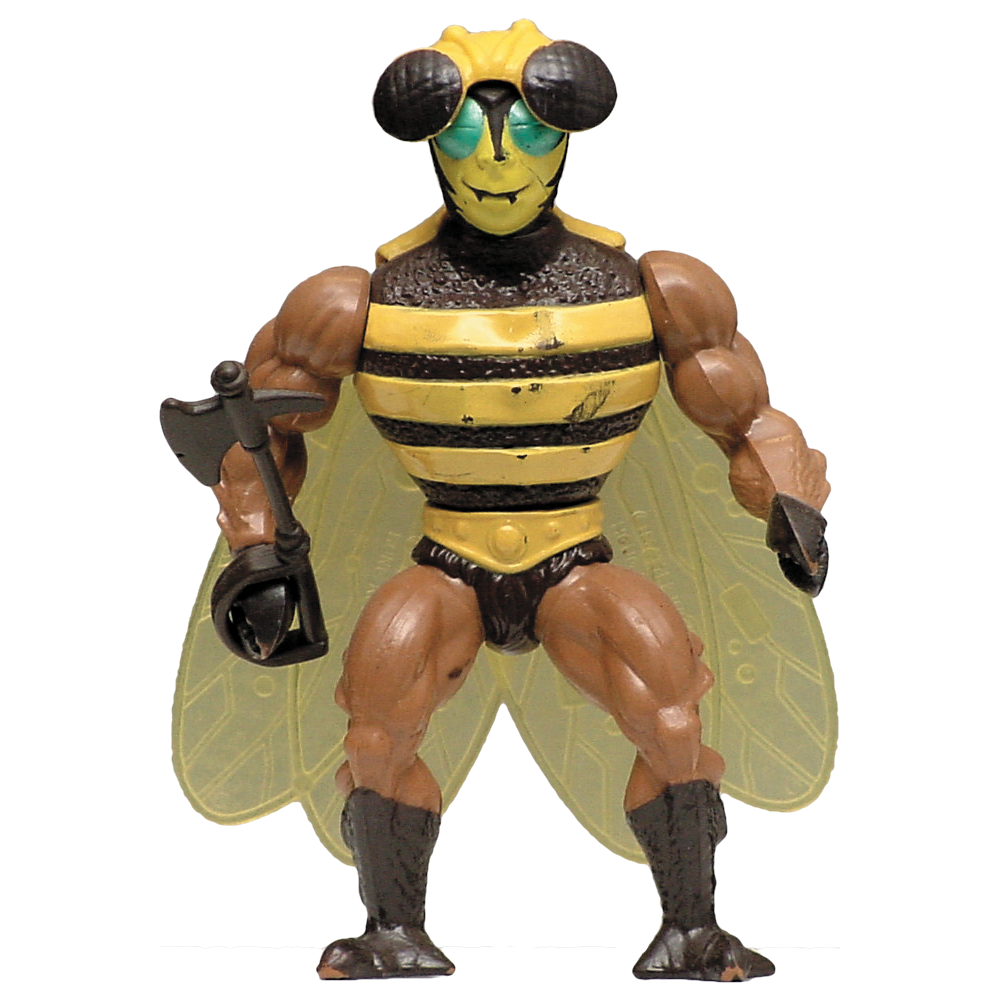
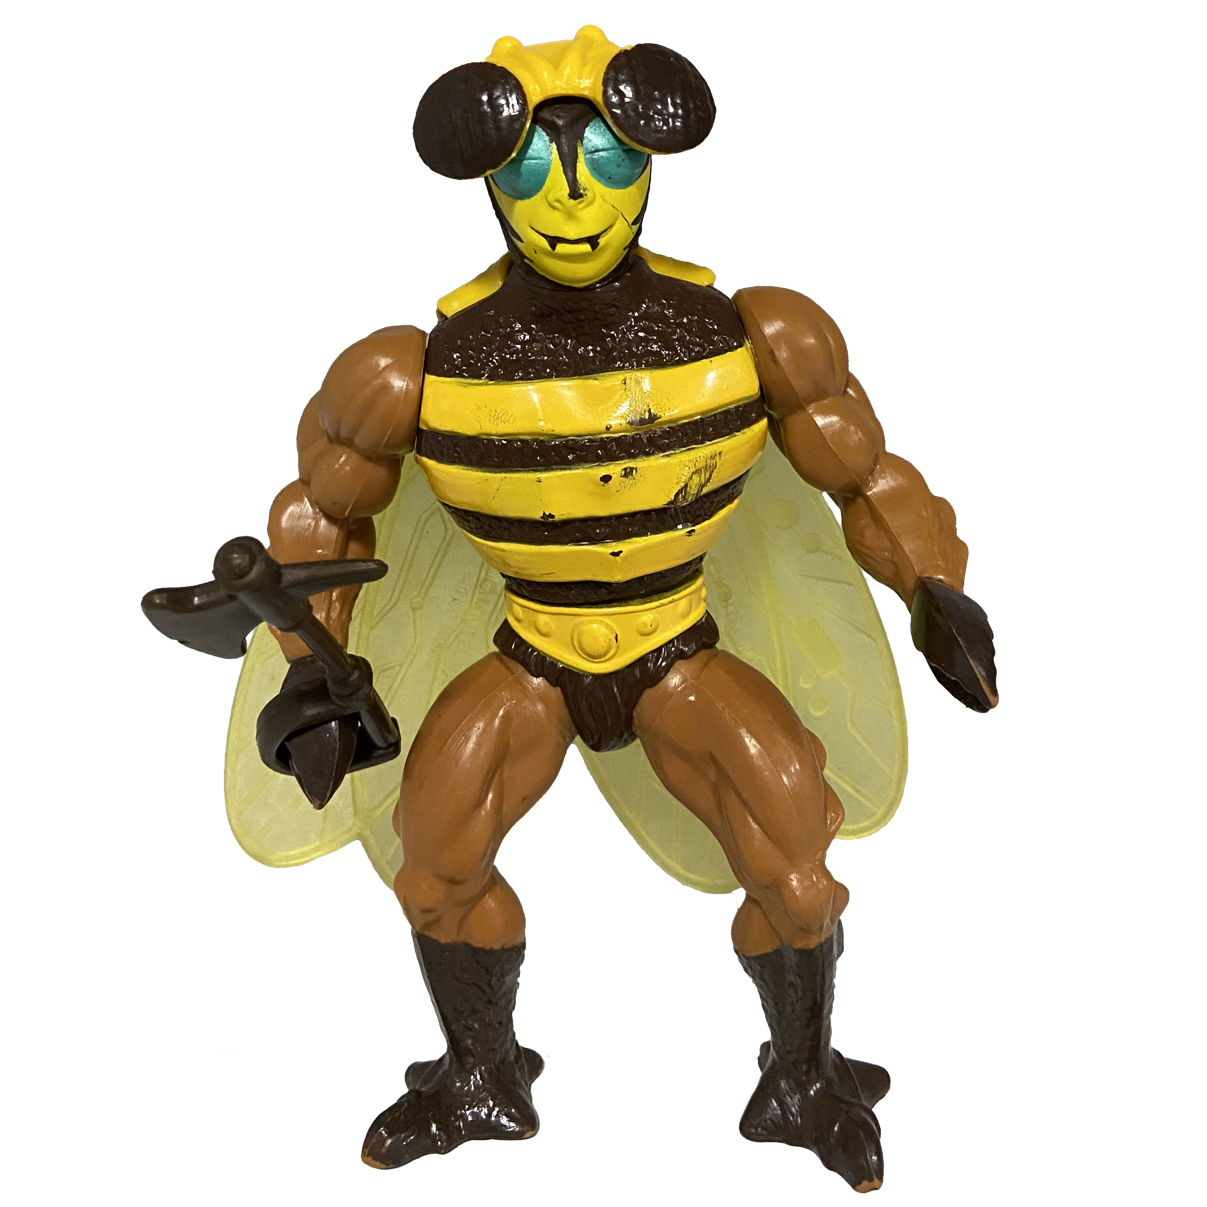
updating to webp

diff --git a/buzz-off.html b/buzz-off.html
@@ -205,11 +205,14 @@
                         <p class="year">2001</p>
                     </li>
                 </ul>
+
+                <!--https://codepen.io/chriscoyier/pen/XwbNwX-->
+
             </section>
             <aside>
                 <ul class="tabs-content">
                     <li>
-                        <!--<picture> 
+                        <picture> 
                             <source   media=”(min-width: 900px)”   
                             srcset=“image-lg_1x.webp 1x, image-lg_2x.webp 2x”   
                             type=“image/webp” > 
@@ -218,11 +221,13 @@
                             <source   media=”(max-width: 600px)”   
                             srcset=“image-sm_1x.webp 1x, image-sm_1x.webp 1x”   type=“image/webp” > 
                             <img   src=“image-lg_1x.jpg”   type=“image/jpeg” ”>
-                            </picture>-->
+                            </picture>
                         <picture>
+                            <source srcset="images/Buzz-Off-Vintage@2x.webp 2x" type="image/webp">
                             <source srcset="images/Buzz-Off-Vintage.webp" type="image/webp">
+                            <source srcset="images/Buzz-Off-Vintage@2x.png 2x" type="image/png"> 
                             <source srcset="images/Buzz-Off-Vintage.png" type="image/png"> 
-                            <img src="images/Buzz-Off-Vintage.png" class="img-responsive" alt="Vintage Mattel Buzz-Off figure">
+                            <img src="images/Buzz-Off-Vintage.png" class="img-responsive" alt="Vintage Mattel Buzz-Off figure" style="filter: drop-shadow(0px 0px 20px rgba(0,0,0,.25));">
                         </picture>
                         <!--<img src="images/Buzz-Off-Vintage.png" class="img-responsive" style="filter: drop-shadow(0px 0px 20px rgba(0,0,0,.25));" />-->
                     </li>
